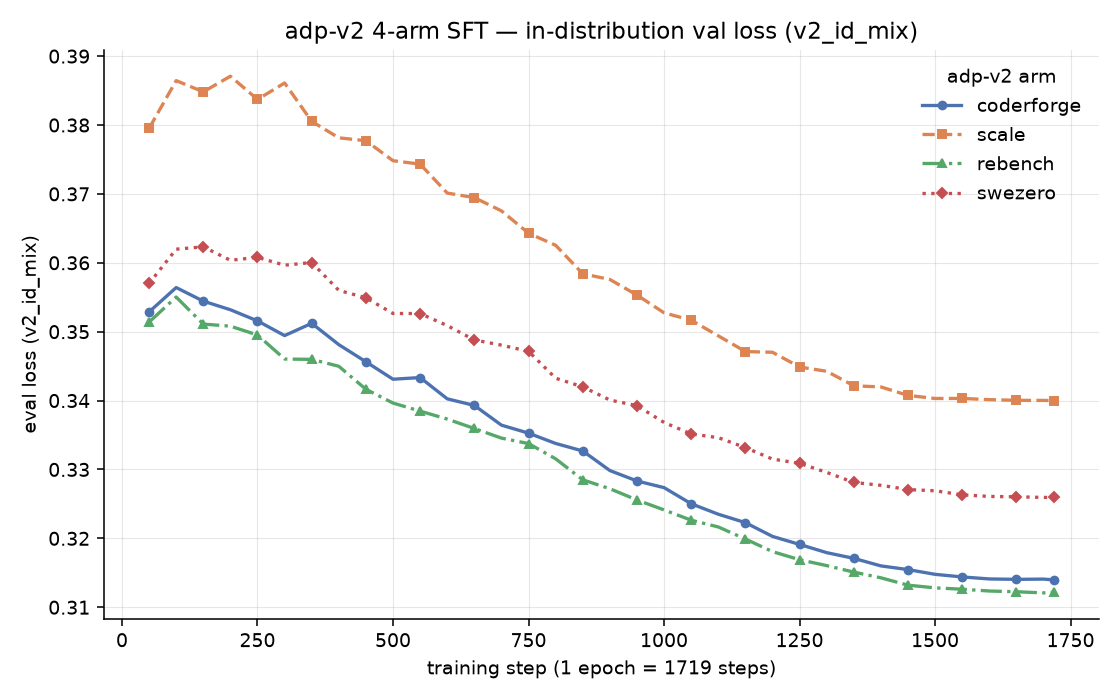
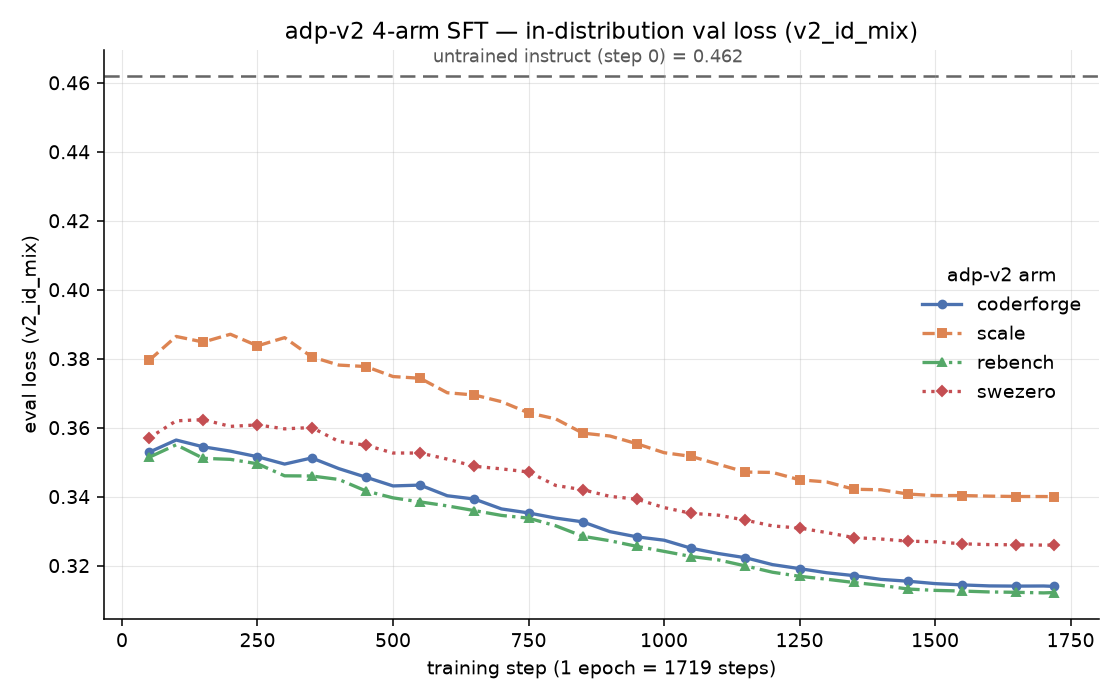
Add untrained-instruct baseline anchor (eval job): correct §7 OOD narrative, harness validated vs wandb endpoints

diff --git a/openhands_sdk_training/v2_arms_a100_rerun/report/README.md b/openhands_sdk_training/v2_arms_a100_rerun/report/README.md
@@ -134,43 +134,53 @@ Final losses (step 1719):
 
 | arm | final train loss | final `v2_id_mix` (ID) | final `v2_swegym_ood` (OOD) |
 |---|---:|---:|---:|
+| _untrained instruct (step 0)_ | _–_ | _0.462_ | _0.573_ |
 | coderforge | 0.304 | 0.314 | 0.450 |
 | scale | 0.284 | 0.340 | **0.415** |
 | rebench | 0.313 | **0.312** | 0.459 |
 | swezero | 0.315 | 0.326 | 0.448 |
 
+The **untrained instruct** row is the shared step-0 anchor (all arms start here) — it is
+the horizontal line on both plots below. It was measured directly by running
+`Qwen/Qwen3.5-4B` through both eval splits with the *same* masking as the curves; the
+same harness reproduces all four trained endpoints to ±0.0001 vs. wandb, so it is
+faithful. Improvements from baseline: ID 0.462 → 0.31–0.34 (−0.12 to −0.15); OOD 0.573 →
+0.415–0.459 (−0.11 to −0.16).
+
 ### In-distribution validation loss (`v2_id_mix`)
 
 ![in-distribution val loss](img/v2_id_mix_loss.png)
 
-All four arms decrease smoothly and monotonically after warmup. **rebench** and
+All four arms decrease smoothly and monotonically after warmup, dropping from the shared
+untrained baseline (0.462, the horizontal line) to 0.31–0.34. **rebench** and
 **coderforge** reach the lowest ID loss (~0.312–0.314); **scale** is consistently
 highest on the ID mixture (~0.340) — expected, since scale is the only arm distilled
 from a different teacher (DeepSeek v3.2) and its distribution overlaps the ID mixture
-least.
+least. Unlike OOD, ID loss keeps falling across the whole run rather than plateauing early.
 
 ### Out-of-distribution validation loss (`v2_swegym_ood`)
 
 ![out-of-distribution val loss](img/v2_swegym_ood_loss.png)
 
-**The OOD result is the headline: the three Qwen3-Coder-480B-distilled arms transfer
-essentially *nothing* to SWE-Gym in loss terms.** Net change over the full run is
-coderforge ~flat (0.449 → 0.450), swezero −0.005 (0.453 → 0.448), rebench −0.013
-(0.472 → 0.459) — all with an early *increase* (hump around steps 250–350) before
-drifting back. Only **scale** shows a genuine downward OOD trend (0.439 → 0.415).
+**With the step-0 anchor in place, the OOD story is: all four arms transfer meaningfully
+to SWE-Gym, but almost all of the gain lands in the first ~50 steps and then plateaus.**
+From the shared untrained baseline (0.573), every arm drops to 0.415–0.459 — a −0.11 to
+−0.16 improvement — but by the first eval point (step 50) each is already at ~0.44–0.47,
+so the curves *look* flat only because the plots begin after the fast early drop.
+(An earlier draft of this report, written before the anchor existed, wrongly called the
+non-scale arms "essentially no transfer" — that was exactly the step-0 artifact the
+anchor corrects.)
 
-Two important caveats on that scale reading. First, both plots start at **step 50**
-(the first eval point), and scale is already ~0.01–0.03 lower on OOD there than the
-other arms. Since all four arms share the *same* instruct init, the missing **step-0
-anchor** is exactly what would distinguish "scale's data teaches transferable
-behavior" from "scale's data simply sits closer to SWE-Gym to begin with" — we can't
-tell which from these curves. Running the untrained instruct model through both eval
-sets (§10, item 1) would resolve this. Second, all arms are a **single seed (42), one
-run each**, so small gaps are within plausible seed noise.
+Beyond step 50 the arms separate: **scale** keeps improving (0.439 → 0.415), while
+coderforge/swezero plateau (~0.45) and rebench sits highest (~0.46), all with a small
+early hump (~steps 250–350). Because every arm shares the *identical* untrained init,
+scale's lower OOD is **earned during training, not a starting-point artifact** — its
+data genuinely teaches more SWE-Gym-transferable behavior. (Standard single-seed caveat
+still applies to the small gaps between the other three.)
 
 So lowest ID loss (rebench/coderforge) does **not** predict best OOD loss (scale) — a
-caution against reading the ID curve as a generalization proxy — but the step-0 gap
-means we should not yet call scale's data causally "more transferable."
+caution against reading the ID curve as a generalization proxy — but the shared step-0
+anchor now lets us attribute scale's OOD edge to its data rather than to initialization.
 
 The **coderforge (verified source) vs swezero (unverified source)** comparison is tiny
 in loss terms: coderforge is lower (better) on ID by 0.012 (0.314 vs 0.326), and the
@@ -224,12 +234,12 @@ trajectory NLL is only weakly predictive of agentic rollout success.)
 
 Ordered by cost. Items 1–3 need no retraining; items 4–5 are new training.
 
-1. **Untrained-baseline anchor on the loss plots (eval-only).** Run the untrained
-   instruct `Qwen/Qwen3.5-4B` through both eval sets once and draw it as a horizontal
-   line on each plot. This is the step-0 reference the OOD reading (§7) currently
-   lacks — it separates "scale's data is transferable" from "scale's data starts closer
-   to SWE-Gym." Also add `eval_on_start: true` to future run configs so step 0 is
-   logged natively.
+1. ~~Untrained-baseline anchor on the loss plots (eval-only).~~ **Done** — the untrained
+   instruct `Qwen/Qwen3.5-4B` was run through both eval splits (ID 0.462, OOD 0.573) and
+   is drawn as the horizontal line on both plots. This resolved the step-0 ambiguity in
+   §7 (scale's OOD edge is earned, not a starting-point artifact) and corrected the
+   earlier "no OOD transfer" misread. *Still recommended for future runs:* add
+   `eval_on_start: true` so step 0 is logged natively rather than reconstructed.
 2. ~~Per-arm token counts and truncation rate at `cutoff_len` 32768.~~ **Done** — see
    the token-count table in §5. Truncation turned out negligible (≤0.03%), so the
    end-of-trajectory clipping concern doesn't materially apply.
